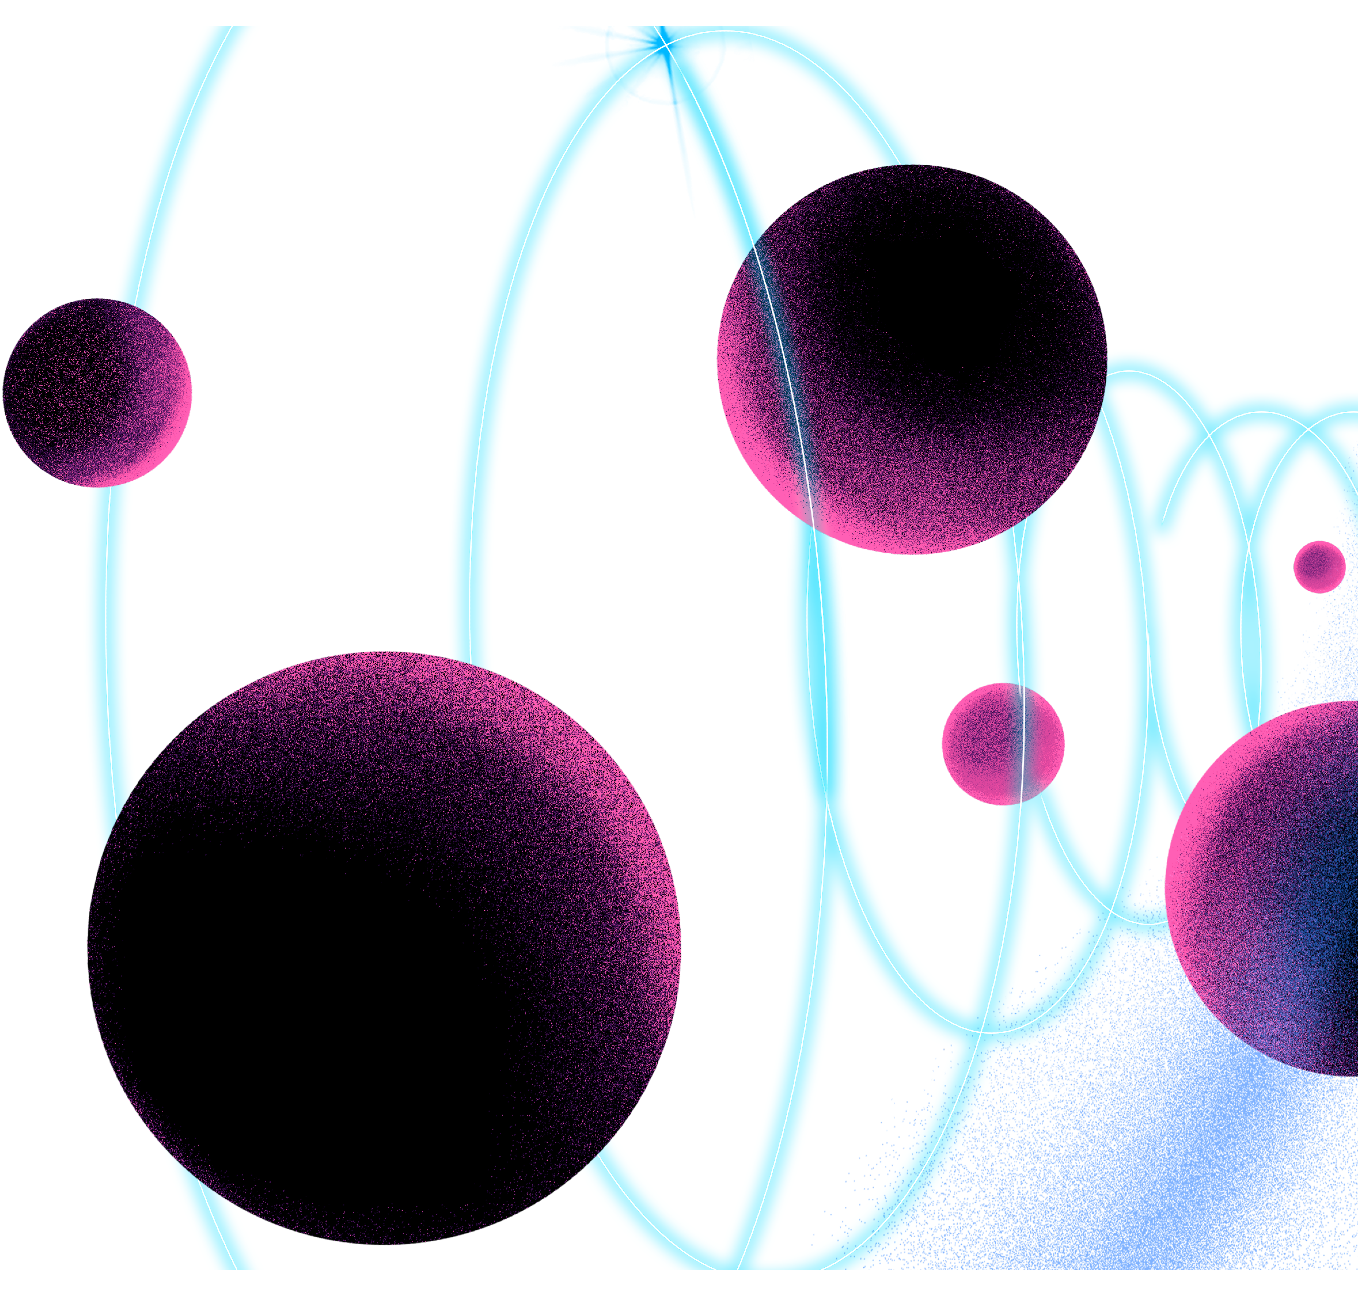
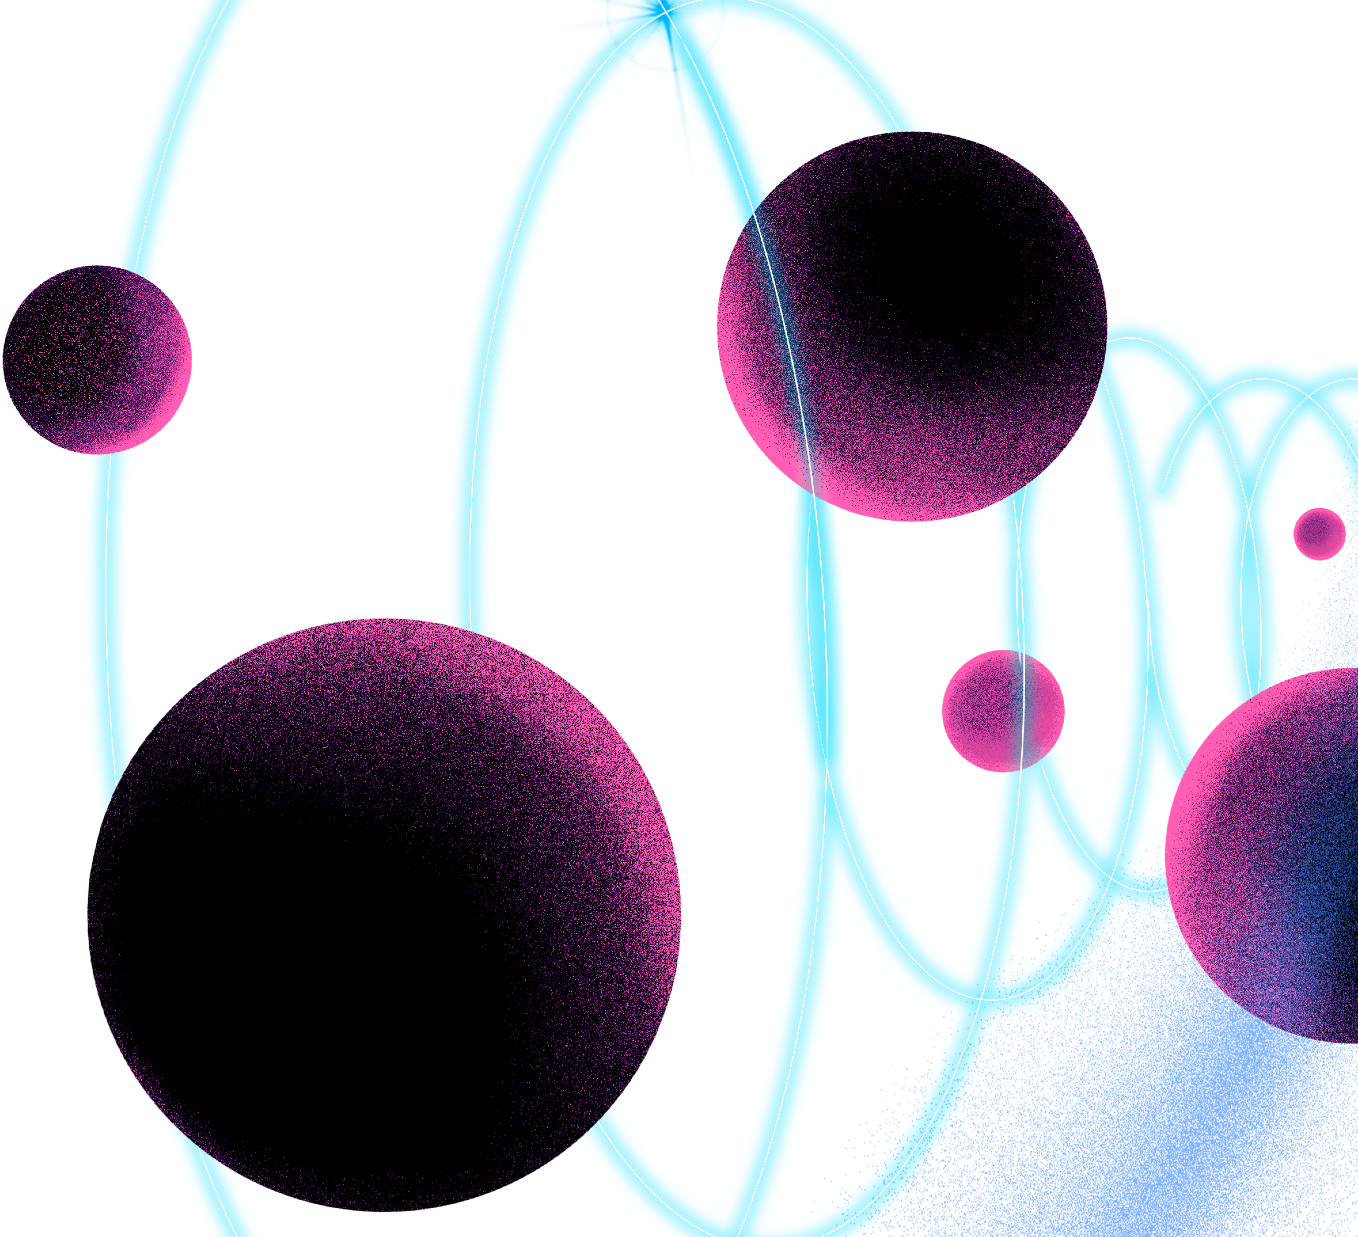
chore: adjust bg home section mobile

diff --git a/src/Components/HomeSection.tsx b/src/Components/HomeSection.tsx
@@ -213,7 +213,8 @@ export const HomeSection = () => {
         width="100%"
         justifyContent="space-between"
         alignContent={"center"}
-        gap={10}
+        gap={{ se: 0, mb: 10 }}
+        // gap={0}
         h="90vh"
         position={"relative"}
       >
@@ -268,7 +269,7 @@ export const HomeSection = () => {
             <Image
               src="/elements/spheres-crop.png"
               alt="Neon Spheres"
-              maxW={"100vh"}
+              maxW={{ se: "120vw", mb: "100vh" }}
               zIndex={1}
               transform={"rotate(90deg)"}
             />
@@ -323,8 +324,8 @@ export const HomeSection = () => {
               <Button
                 variant={"solid"}
                 borderRadius="12px"
-                height={"50px"}
-                width={"60%"}
+                height={{ se: "40px", mb: "50px" }}
+                width={{ se: "50%", mb: "60%" }}
               >
                 <Text fontFamily="Orbitron" fontSize={[16, 18]}>
                   PLAY NOW
